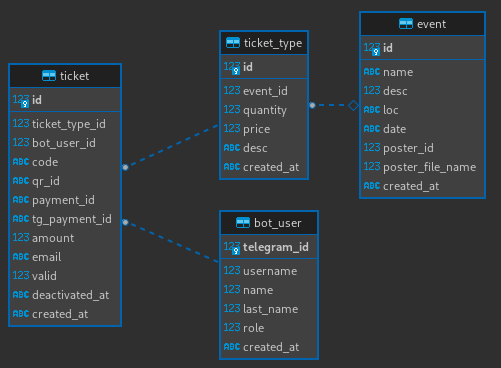
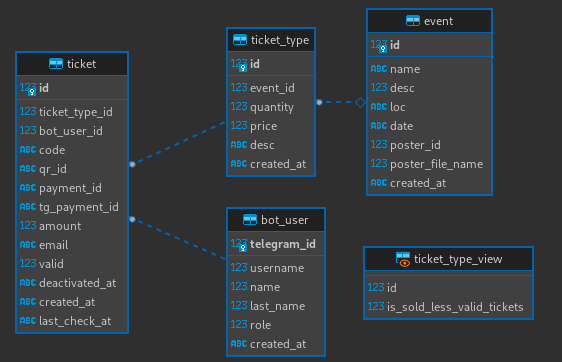
add qr check with OpenCV

Changed region(s): [[0.3293, 0.0, 0.988, 0.547], [0.0, 0.1215, 0.3293, 0.942], [0.2994, 0.547, 0.9581, 1.0]]

diff --git a/ticket_bot/services/ticket_service.py b/ticket_bot/services/ticket_service.py
@@ -1,9 +1,10 @@
 import datetime as dt
 import logging
+import string
 from typing import List
 
 from ticket_bot.db import fetch_all, execute, fetch_one
-from ticket_bot.models import Ticket
+from ticket_bot.models import Ticket, TicketCheck
 
 
 async def add_ticket_db(ticket_type_id: int,
@@ -69,11 +70,33 @@ async def get_ticket_db(ticket_id: int) -> Ticket | None:
         return None
 
 
-
 async def add_ticket_qr_db(ticket_id: int, qr_id: str) -> bool:
     query = "UPDATE ticket SET qr_id = :qr_id WHERE id = :id"
     result = await execute(query, {"qr_id": qr_id, "id": ticket_id})
     return result.rowcount > 0
+
+
+async def check_ticket_db(code: string) -> TicketCheck | None:
+    query = """SELECT t.id, t.code, tt.id AS ticket_type_id, tt.desc AS ticket_type_desc, t.amount, 
+                t.email, t.valid, t.deactivated_at, t.created_at, t.last_check_at,
+                e.name AS event_name, e.date AS event_date,
+                bu.telegram_id AS bot_user_id, bu.username, bu.name, bu.last_name  
+                FROM ticket t
+                JOIN ticket_type tt ON tt.id = t.ticket_type_id
+                JOIN event e ON e.id = tt.event_id
+                JOIN bot_user bu ON bu.telegram_id = t.bot_user_id
+                WHERE code = :code"""
+    result = await fetch_one(query, {"code": code})
+    if result is not None:
+        tc = TicketCheck(*result.values())
+        tc.event_date = dt.datetime.strptime(tc.event_date, '%Y-%m-%d %H:%M:%S.%f')
+        tc.created_at = dt.datetime.strptime(tc.created_at, '%Y-%m-%d %H:%M:%S')
+        tc.deactivated_at = dt.datetime.strptime(tc.deactivated_at, '%Y-%m-%d %H:%M:%S') if tc.deactivated_at else None
+        tc.last_check_at = dt.datetime.strptime(tc.last_check_at, '%Y-%m-%d %H:%M:%S') if tc.last_check_at else None
+        await execute("UPDATE ticket SET last_check_at = current_timestamp WHERE id = :id", {"id": tc.id})
+        return tc
+    else:
+        return None
 
 
 if __name__ == "__main__":

diff --git a/ticket_bot/__main__.py b/ticket_bot/__main__.py
@@ -11,7 +11,7 @@ from telegram.ext import (
 )
 
 from ticket_bot.db import close_db
-from ticket_bot.handlers import precheckout_handler, successful_payment_handler, error_handler
+from ticket_bot.handlers import precheckout_handler, successful_payment_handler, error_handler, check_qr_handler
 from ticket_bot.services.admin_service import get_admin_ids
 
 COMMAND_HANDLERS = {
@@ -21,7 +21,7 @@ COMMAND_HANDLERS = {
     "mytickets": handlers.show_my_tickets_handler,
     "story": handlers.story_handler,
     "stat": handlers.show_ticket_stat_handler,
-    }
+}
 
 CALLBACK_QUERY_HANDLERS = {
     rf"^{config.ALL_EVENTS_CALLBACK_PATTERN}(\d+)$": handlers.all_events_button,
@@ -29,7 +29,6 @@ CALLBACK_QUERY_HANDLERS = {
     rf"^{config.SELECT_TICKET_TYPE_CALLBACK_PATTERN}(\d+)$": handlers.get_ticket,
     rf"^{config.SELECT_TICKET_CALLBACK_PATTERN}(\d+)$": handlers.all_my_tickets_button,
 }
-
 
 # Enable logging
 logging.basicConfig(
@@ -56,13 +55,13 @@ def main() -> None:
     for pattern, handler in CALLBACK_QUERY_HANDLERS.items():
         application.add_handler(CallbackQueryHandler(handler, pattern=pattern))
 
-    # Pre-checkout handler to final check
+    # payment handlers
     application.add_handler(PreCheckoutQueryHandler(precheckout_handler))
+    application.add_handler(MessageHandler(filters.SUCCESSFUL_PAYMENT, successful_payment_handler))
 
-    # Success! Notify your user!
-    application.add_handler(
-        MessageHandler(filters.SUCCESSFUL_PAYMENT, successful_payment_handler)
-    )
+    application.add_handler(MessageHandler(filters.PHOTO & filters.Chat(config.ADMIN_IDS), check_qr_handler))
+
+    # error handler
     application.add_error_handler(error_handler)
 
     # Run the bot until the user presses Ctrl-C

diff --git a/ticket_bot/handlers/check_qr.py b/ticket_bot/handlers/check_qr.py
@@ -1,0 +1,33 @@
+import logging
+from io import BytesIO
+
+import cv2
+import numpy as np
+from telegram import Update
+from telegram.ext import ContextTypes
+
+from ticket_bot.handlers.response import send_text_response
+from ticket_bot.services.ticket_service import check_ticket_db
+from ticket_bot.templates.strings import Strings as s
+from ticket_bot.templates.templates import render_template
+
+
+async def check_qr_handler(update: Update, context: ContextTypes.DEFAULT_TYPE) -> None:
+    photo_qr = await update.effective_message.photo[-1].get_file()
+    bytes_io = BytesIO()
+    await photo_qr.download_to_memory(bytes_io)
+    bytes_io.seek(0)
+    file_bytes = np.asarray(bytearray(bytes_io.read()), dtype=np.uint8)
+    img = cv2.imdecode(file_bytes, cv2.IMREAD_COLOR)
+    qcd = cv2.QRCodeDetector()
+    retval, decoded_info, points, straight_qrcode = qcd.detectAndDecodeMulti(img)
+    if retval:
+        logging.info(decoded_info)
+        tc = await check_ticket_db(decoded_info[0])
+        if tc is not None:
+            # logging.info(tc)
+            await send_text_response(update, context, response=render_template("ticket_check.j2", {"tc": tc}))
+        else:
+            await context.bot.send_message(chat_id=update.effective_chat.id, text=s.FAKE_TICKET_CODE)
+    else:
+        await context.bot.send_message(chat_id=update.effective_chat.id, text=s.NO_QR_IN_PHOTO)

diff --git a/ticket_bot/models.py b/ticket_bot/models.py
@@ -39,6 +39,7 @@ class Ticket:
     valid: bool
     deactivated_at: datetime.datetime | None
     created_at: datetime.datetime
+    last_check_at: datetime.datetime | None
     ticket_type_desc: str | None = None
     ticket_type_price: int | None = None
     event_id: int | None = None
@@ -60,3 +61,23 @@ class TicketStat:
     is_sold_less_valid_tickets: bool
     sold_valid_tickets: int
     sold_invalid_tickets: int
+
+
+@dataclass
+class TicketCheck:
+    id: int
+    code: str
+    ticket_type_id: int
+    ticket_type_desc: str
+    amount: int
+    email: str | None
+    valid: bool
+    deactivated_at: datetime.datetime | None
+    created_at: datetime.datetime
+    last_check_at: datetime.datetime | None
+    event_name: str
+    event_date: datetime.datetime
+    user_id: int
+    username: str | None
+    name: str | None
+    last_name: str | None

diff --git a/ticket_bot/templates/strings.py b/ticket_bot/templates/strings.py
@@ -10,3 +10,5 @@ class Strings:
     INVOICE_TITLE = "Билет"
     ERROR_POST_PAYMENT = "Что-то пошло не так, свяжитесь с администратором!"
     SOLDOUT = "Все билеты проданы, купить не получится"
+    NO_QR_IN_PHOTO = "Билет на фото не обнаружен"
+    FAKE_TICKET_CODE = "Билета с таким номером в базе нет"

diff --git a/ticket_bot/handlers/__init__.py b/ticket_bot/handlers/__init__.py
@@ -7,6 +7,7 @@ from .error import error_handler
 from .mytickets import show_my_tickets_handler, all_my_tickets_button
 from .story import story_handler
 from .ticket_stat import show_ticket_stat_handler
+from .check_qr import check_qr_handler
 __all__ = [
     "get_ticket",
     "start",
@@ -21,4 +22,5 @@ __all__ = [
     "all_my_tickets_button",
     "story_handler",
     "show_ticket_stat_handler",
+    "check_qr_handler",
 ]

diff --git a/README.MD b/README.MD
@@ -4,6 +4,7 @@
 - aiosqlite is used for asynchronous interaction with SQLite database
 - using Jinja2 for templates - easy to translate into any language
 - Telegram Payments as built-in payment system and YooMoney as payment provider
+- OpenCV for QR scan and check: just send photo with QR code and get full ticket report (only for admins)
 
 ## 🇷🇺 Telegram магазин для продажи билетов со встроенной оплатой через YooMoney и Telegram Payments
 
@@ -11,6 +12,7 @@
 - используется aiosqlite для асинхронного взаимодействия с бд SQLite
 - использование Jinja2 для шаблонов - легко перевести на любой язык
 - Telegram Payments в качестве встроенной платежной системы и YooMoney в качестве платежного провайдера
+- Opencv для детекции и распознавания QR: отправьте фото с билетом и получите подробную информацию, включая время последней проверки
 
 ## Команды бота:
 
@@ -24,13 +26,13 @@
 ## Запуск
 
 1. Скопируйте `.env.example` в `.env` и отредактируйте `.env` файл, заполнив в нём все переменные окружения:
-2. требуется Python 3.11.
+2. требуется Python 3.11 и OpenCV.
 3. Установка зависимостей и запуск бота:
 ```bash
    pip install -r requirements.txt
    py -m ticket_bot
 ```
-- В первый раз необходимо создать базу данных:
+- В первый раз перед запуском необходимо создать базу данных:
 ```bash
   cat db.sql | sqlite3 db.sqlite3
 ```
